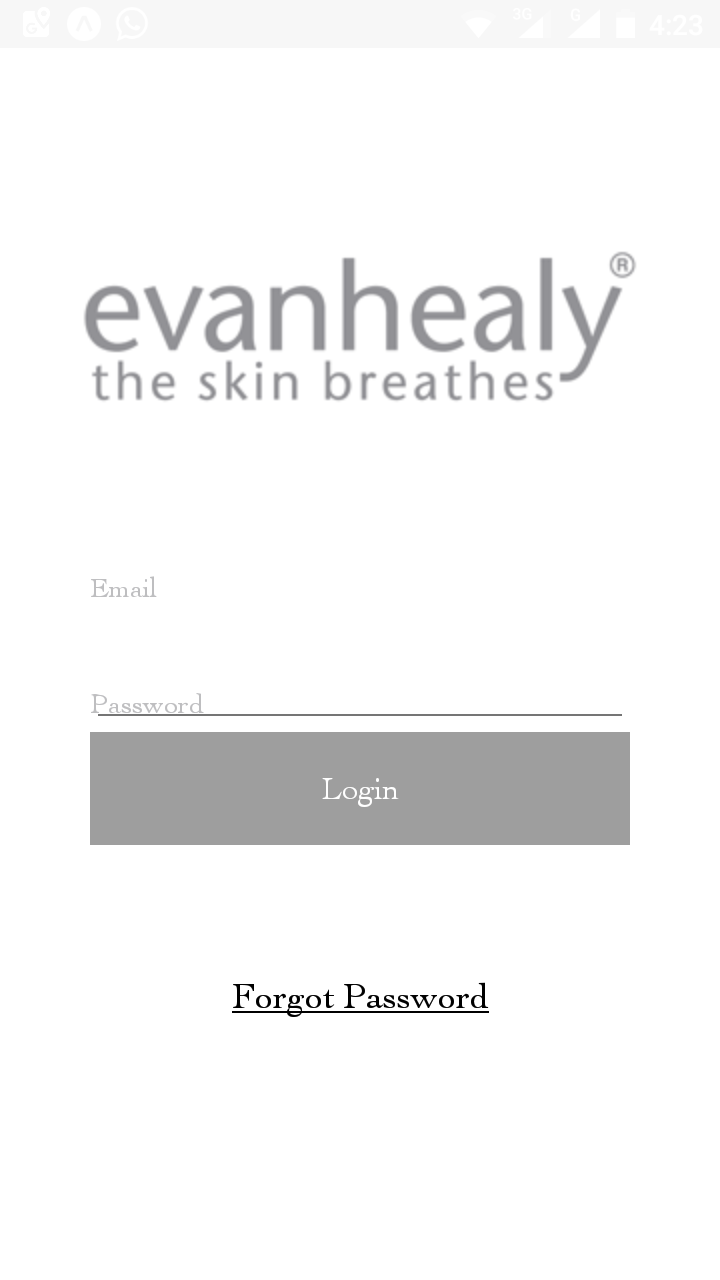
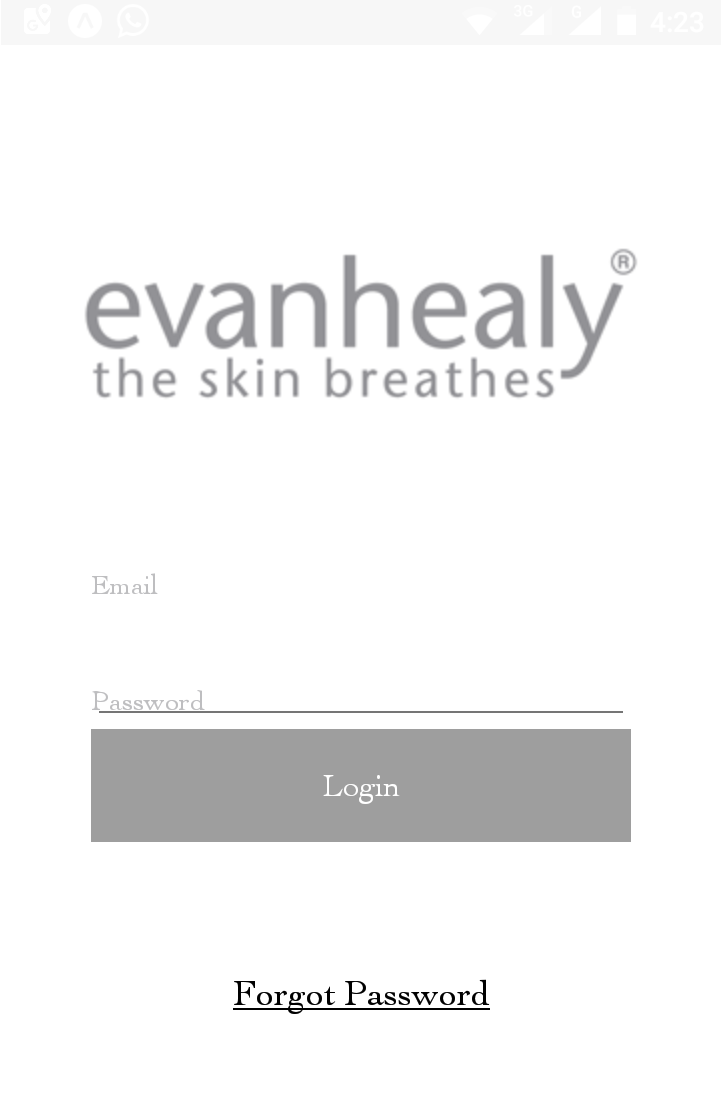
Add mock of projects page

diff --git a/projects.html b/projects.html
@@ -13,7 +13,21 @@
   <link href="style.css" rel="stylesheet">
 </head>
 <body>
-  <h3>Here will be my projects, how is going to be the design?</h3>
+  <nav class="site-header sticky-top py-1">
+    <div class="container d-flex flex-column flex-md-row justify-content-between">
+      <a class="py-2" href="#">
+        <svg xmlns="http://www.w3.org/2000/svg" width="24" height="24" viewBox="0 0 24 24" fill="none" stroke="currentColor" stroke-width="2" stroke-linecap="round" stroke-linejoin="round" class="d-block mx-auto"><circle cx="12" cy="12" r="10"></circle><line x1="14.31" y1="8" x2="20.05" y2="17.94"></line><line x1="9.69" y1="8" x2="21.17" y2="8"></line><line x1="7.38" y1="12" x2="13.12" y2="2.06"></line><line x1="9.69" y1="16" x2="3.95" y2="6.06"></line><line x1="14.31" y1="16" x2="2.83" y2="16"></line><line x1="16.62" y1="12" x2="10.88" y2="21.94"></line></svg>
+      </a>
+      <a class="py-2 d-none d-md-inline-block" href="index.html">Home</a>
+      <a class="py-2 d-none d-md-inline-block" href="projects.html">Projects</a>
+      <a class="py-2 d-none d-md-inline-block" href="aboutme.html">About</a>
+    </div>
+  </nav>
+
+  <h3 class="text-center">Evanhealy</h3>
+  <img src="imgs/evanhealy/login.png" alt="Evanhealy Login" style="height: 100%;width: 100%;">
+  <h3 class="text-center">Evanhealy Mobile</h3>
+  <img src="imgs/evanhealy/loginMobile.png" alt="Evanhealy Mobile Login" style="height: 100%;width: 100%;">
   <!-- Bootstrap core JavaScript
   ================================================== -->
   <!-- Placed at the end of the document so the pages load faster -->

diff --git a/index.html b/index.html
@@ -65,6 +65,7 @@
           <div class="my-3 p-3">
             <h2 class="display-5">Settleit</h2>
             <p class="lead">Project built with Dhtmlx</p>
+            <img src="imgs/settleit/login.png" alt="Settleit Login" style="height: 105%;width: 105%;">
           </div>
         </div>
         <div class="bg-primary mr-md-3 pt-3 px-3 pt-md-5 px-md-5 text-center text-white overflow-hidden">
